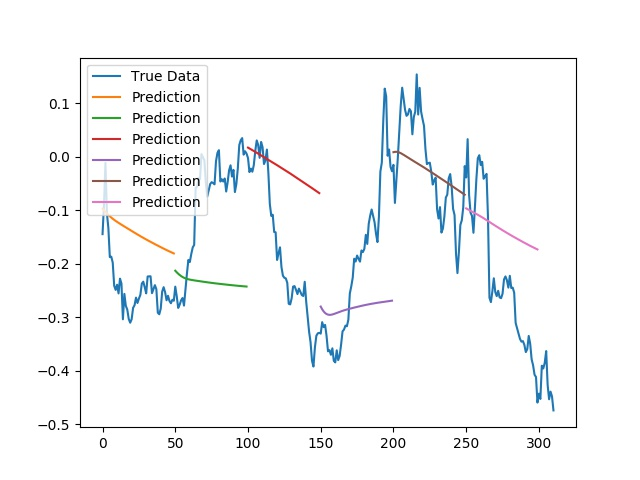
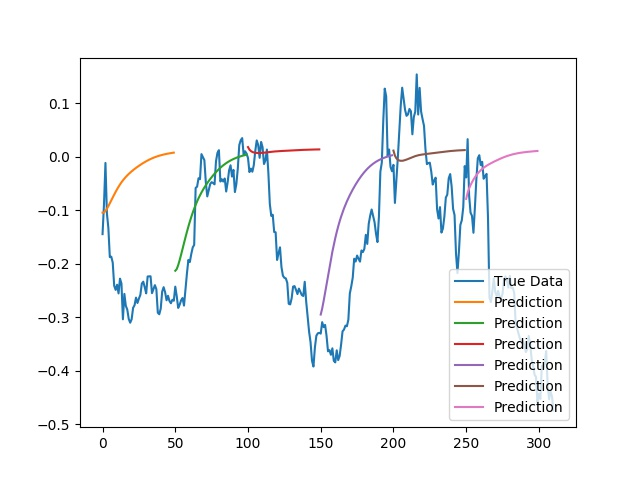
:cat: lstm global method

diff --git a/main.py b/main.py
@@ -4,35 +4,60 @@ import matplotlib.pyplot as plt
 from keras.models import load_model
 
 def plot_results(predicted_data, true_data, fileName):
-    fig = plt.figure(facecolor='white')
-    ax = fig.add_subplot(111)
-    ax.plot(true_data, label='True Data')
-    plt.plot(predicted_data, label='Prediction')
-    plt.legend()
-    plt.savefig(fileName)
+	'''
+	Plots prediction dots and true data
+	'''
+	fig = plt.figure(facecolor='white')
+	ax = fig.add_subplot(111)
+	ax.plot(true_data, label='True Data')
+	plt.plot(predicted_data, label='Prediction')
+	plt.legend()
+	plt.savefig(fileName)
 
 def plot_results_multiple(predicted_data, true_data, prediction_len):
-    fig = plt.figure(facecolor='white')
-    ax = fig.add_subplot(111)
-    ax.plot(true_data, label='True Data')
-    #Pad the list of predictions to shift it in the graph to it's correct start
-    for i, data in enumerate(predicted_data):
-        padding = [None for p in range(i * prediction_len)]
-        plt.plot(padding + data, label='Prediction')
-        plt.legend()
-        plt.savefig('multipleResults.jpg')
+	'''
+	Plots multiple sequence predictions and true data
+	'''
+	fig = plt.figure(facecolor='white')
+	ax = fig.add_subplot(111)
+	ax.plot(true_data, label='True Data')
+	#Pad the list of predictions to shift it in the graph to it's correct start
+	for i, data in enumerate(predicted_data):
+		padding = [None for p in range(i * prediction_len)]
+		plt.plot(padding + data, label='Prediction')
+		plt.legend()
+		plt.savefig('multipleResults.jpg')
 
+def plotMetrics(history):
+	'''
+	Plots loss and MSE during epochs
+	'''
+	losses = []
+	mses = []
+	for key, value in history.items():
+		if(key == 'loss'):
+			losses = value
+	plt.figure(figsize=(6, 3))
+	plt.plot(losses)
+	plt.ylabel('error')
+	plt.xlabel('iteration')
+	plt.title('training error')
+	plt.savefig('losses.png')
 
 def trainModel(newModel, epochs=1, seq_len=50):
 	'''
 	Trains and saves model
 	'''
 	if newModel:
+		global_start_time = time.time()
+
 		print('> Data Loaded. Compiling LSTM model...')
 
 		model = lstm.build_model([1, 50, 100, 1])
 
 		model.save('./model/lstm.h5')
+
+		print('> Training duration (s) : ', time.time() - global_start_time)
 	else:
 		print('> Data Loaded. Loading LSTM model...')
 
@@ -41,14 +66,13 @@ def trainModel(newModel, epochs=1, seq_len=50):
 	return model
 
 
-
-#Main Run Thread
-if __name__=='__main__':
-	global_start_time = time.time()
-
+def run():
+	'''
+	Main method for manual testing
+	'''
 	# Parameters
 	stockFile = './data/lstm/Google.csv'
-	epochs = 1
+	epochs = 20
 	seq_len = 50
 	batch_size=512
 
@@ -61,14 +85,20 @@ if __name__=='__main__':
 
 	print('> LSTM trained, Testing model on validation set... ')
 
+	training_start_time = time.time()
+
 	hist = model.fit(
 	    X_train,
 	    y_train,
 	    batch_size=batch_size,
 	    nb_epoch=epochs,
-	    validation_split=0.05)
+	    validation_split=0.05,
+		verbose=0)
 
-	print('> Training duration (s) : ', time.time() - global_start_time)
+	print('> Testing duration (s) : ', time.time() - training_start_time)
+
+	print('> Plotting Losses....')
+	plotMetrics(hist.history)
 
 	print('> Plotting point by point prediction....')
 	predicted = lstm.predict_point_by_point(model, X_test)
@@ -81,3 +111,12 @@ if __name__=='__main__':
 	print('> Plotting multiple sequence prediction....')
 	predictions = lstm.predict_sequences_multiple(model, X_test, seq_len, 50)
 	plot_results_multiple(predictions, y_test, 50)
+
+
+#Main Run Thread
+if __name__=='__main__':
+	#run()
+	predicted, averageAccuracy = lstm.calculate_price_movement('Google', 50)
+	print(predicted, averageAccuracy)
+
+

diff --git a/lstm.py b/lstm.py
@@ -7,7 +7,7 @@ import matplotlib.pyplot as plt
 from numpy import newaxis
 from keras.layers.core import Dense, Activation, Dropout
 from keras.layers.recurrent import LSTM
-from keras.models import Sequential
+from keras.models import Sequential, load_model
 
 os.environ['TF_CPP_MIN_LOG_LEVEL'] = '3' #Hide messy TensorFlow warnings
 warnings.filterwarnings('ignore') #Hide messy Numpy warnings
@@ -104,3 +104,49 @@ def predict_sequences_multiple(model, data, window_size, prediction_len):
             curr_frame = np.insert(curr_frame, [window_size-1], predicted[-1], axis=0)
         prediction_seqs.append(predicted)
     return prediction_seqs
+
+
+
+def calculate_price_movement(ticker, seq_len):
+    global_start_time = time.time()
+    print('> Started Calculations...')
+    # Parameters
+    stockFile = './data/lstm/'+ticker+'.csv'
+    epochs = 20
+    batch_size=512
+    accs = []
+
+    print('> Loading data... ')
+    X_train, y_train, X_test, y_test = load_data(stockFile, seq_len, True)
+
+    model = load_model('./model/lstm.h5')
+
+    print('> LSTM trained, Testing model on validation set... ')
+
+    training_start_time = time.time()
+
+    hist = model.fit(
+        X_train,
+        y_train,
+        batch_size=batch_size,
+        nb_epoch=epochs,
+        validation_split=0.05,
+        verbose=0)
+
+    print('> Testing duration (s) : ', time.time() - training_start_time)
+
+    print('> Calculating Losses....')
+    for key, value in hist.history.items():
+        if(key == 'acc'):
+            accs = value
+
+    averageAccuracy = np.average(accs)
+
+    print('> Plotting full sequence prediction....')
+    predicted = predict_sequence_full(model, X_test, seq_len)
+
+    return predicted, averageAccuracy
+
+
+
+
